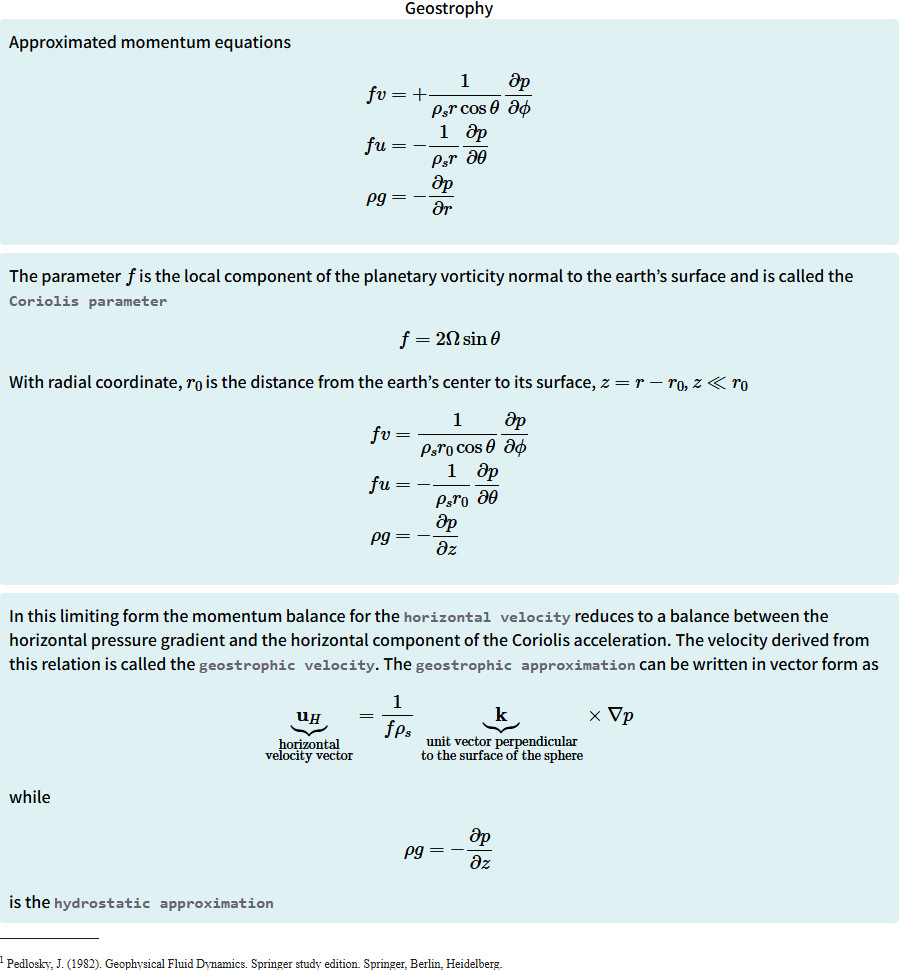
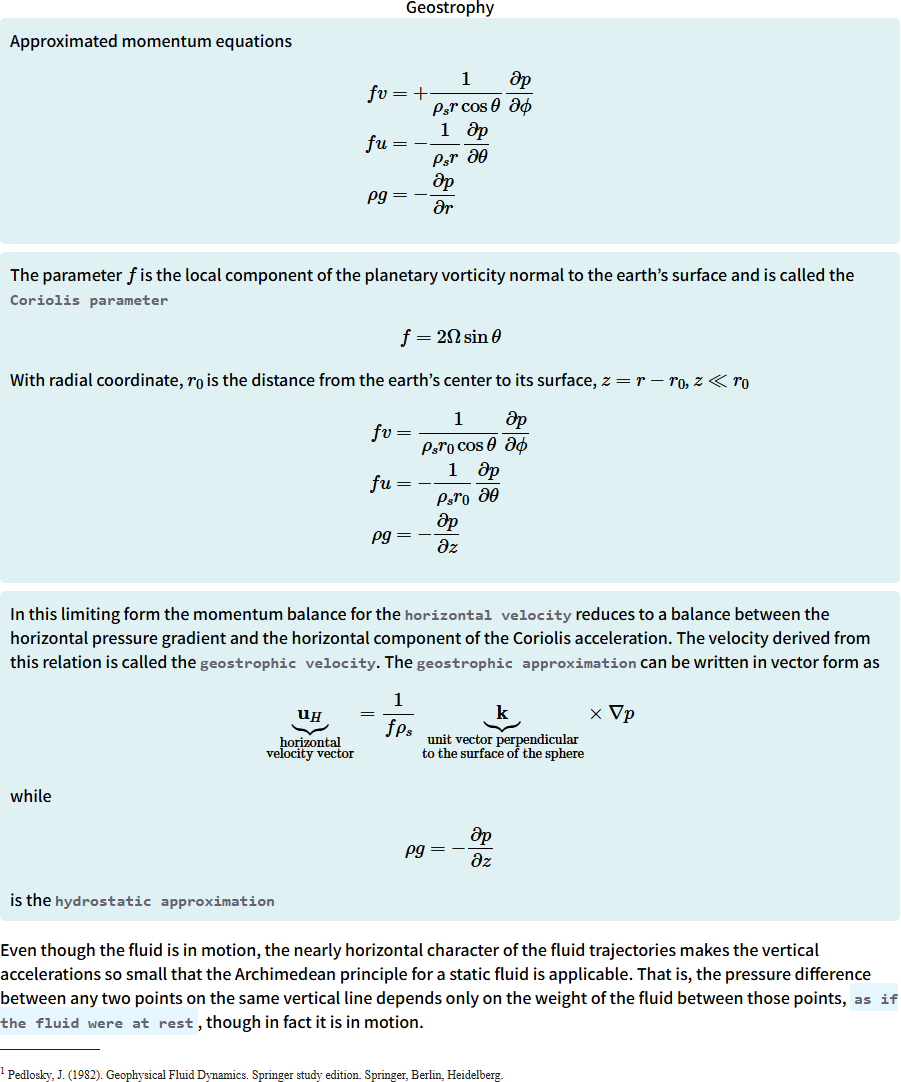
Update

diff --git a/Lecture5ASlide17.html b/Lecture5ASlide17.html
@@ -194,7 +194,8 @@ $$
 $$
 is the <span class="sql">hydrostatic approximation</span>
 </div>
-
+<p>Even though the fluid is in motion, the nearly horizontal character of the fluid trajectories makes the vertical accelerations so small that the Archimedean principle for a static fluid is applicable. 
+  That is, the pressure difference between any two points on the same vertical line depends only on the weight of the fluid between those points, <span class="highlightkumon"><span class="sql">as if the fluid were at rest</span></span>, though in fact it is in motion.</p>
 
 
 

diff --git a/Lecture5ASlide8.html b/Lecture5ASlide8.html
@@ -156,6 +156,11 @@ window.addEventListener('resize', scaleContainer);
 
 
 
+<div class="description">
+
+</div>
+
+
         <!-- Navigation Buttons -->
         <a href="Lecture5ASlide7.html" class="nav-button left">&#9664;</a>
         <a href="Lecture5ASlide9.html" class="nav-button right">&#9654;</a>
